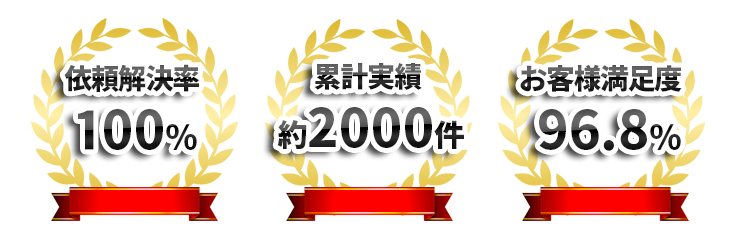
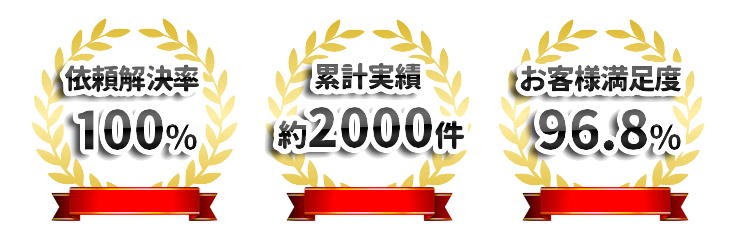
20220605 ルートトップ作成

diff --git a/resources/views/pages/top.blade.php b/resources/views/pages/top.blade.php
@@ -6,7 +6,7 @@
 <div class="center>
 	<div id="comp-100gg5iz" class="XUUsC">
 		<div data-testid="linkElement" class="xQ_iF">
-			<wix-image id="img_comp-l00gg5iz" class="_1-6YJ _1Fe8-" data-image-info="{&quot;containerId&quot;:&quot;comp-l00gg5iz&quot;,&quot;displayMode&quot;:&quot;fill&quot;,&quot;imageData&quot;:{&quot;width&quot;:736,&quot;height&quot;:234,&quot;uri&quot;:&quot;7829b2_16725eb7281940e6975a966ba7c94e0c~mv2.png&quot;,&quot;name&quot;:&quot;lisence.png&quot;,&quot;displayMode&quot;:&quot;fill&quot;}}" data-bg-effect-name="" data-image-zoomed="" data-has-ssr-src="" data-src="https://static.wixstatic.com/media/7829b2_16725eb7281940e6975a966ba7c94e0c~mv2.png/v1/fill/w_600,h_191,al_c,q_85,usm_0.66_1.00_0.01,enc_auto/lisence.png"><img src="https://static.wixstatic.com/media/7829b2_16725eb7281940e6975a966ba7c94e0c~mv2.png/v1/fill/w_600,h_191,al_c,q_85,usm_0.66_1.00_0.01,enc_auto/lisence.png" alt="実績" style="width:600px;height:191px;object-fit:cover;object-position:50% 50%"></wix-image>
+			<img src="/images/lisence.png" alt="実績" style="width:600px;height:191px;object-fit:cover;object-position:50% 50%">
 		</div>
 	</div>
 	

diff --git a/resources/views/layout/base.blade.php b/resources/views/layout/base.blade.php
@@ -27,10 +27,9 @@
 
     <body>
         <div class="position-ref full-height">
-            <header>
+            <header style="postion: fixed;">
                 @include('includes.header')
             </header>
-
             <main style="overflow-x:auto; overflow-y:auto">
                 @yield('content')
             </main>

diff --git a/routes/web.php b/routes/web.php
@@ -10,6 +10,7 @@
 | contains the "web" middleware group. Now create something great!
 |
 */
+Route::get('/', 'TopController@index');
 
 Route::get('/top/{place?}/{page?}/{flg?}', 'TopController@index');
 
